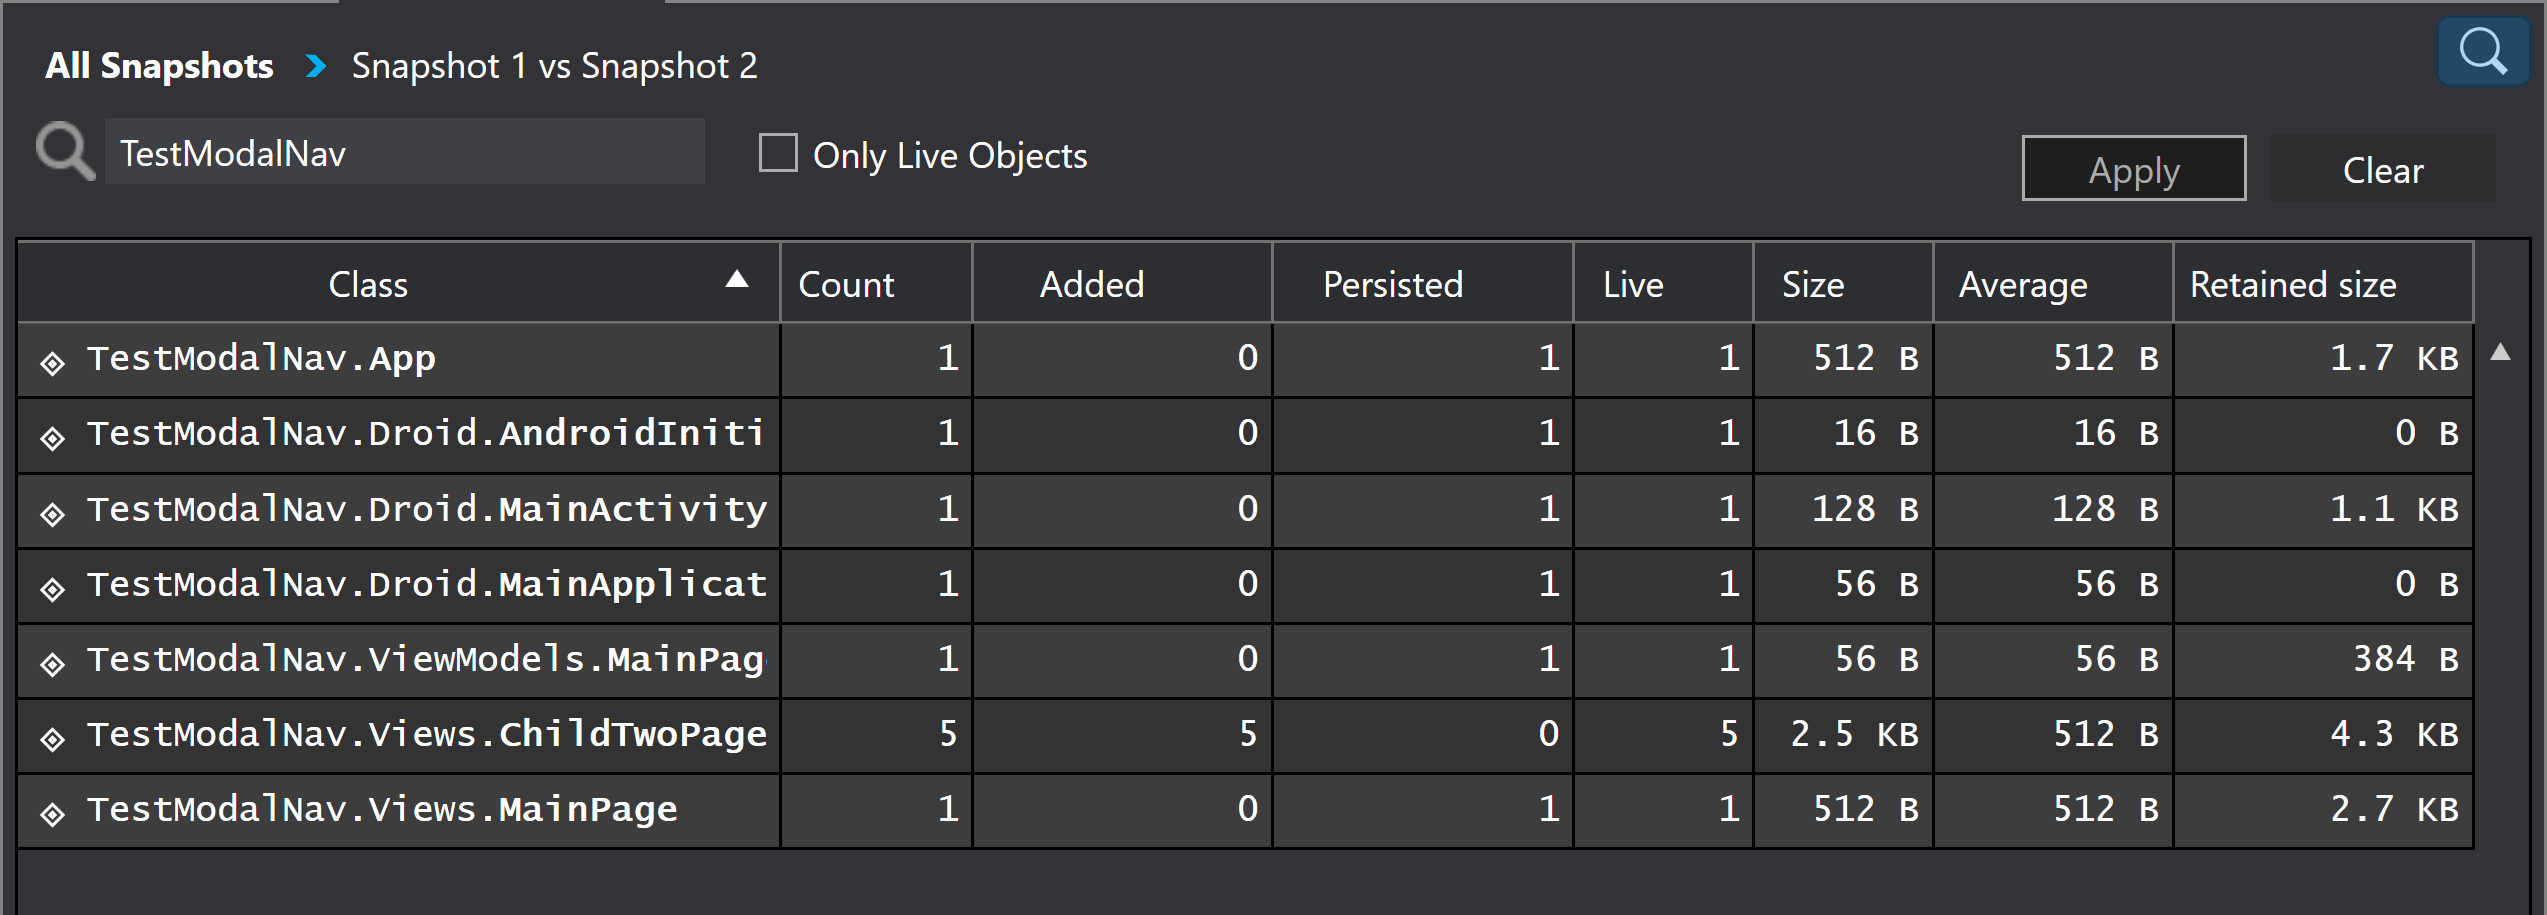
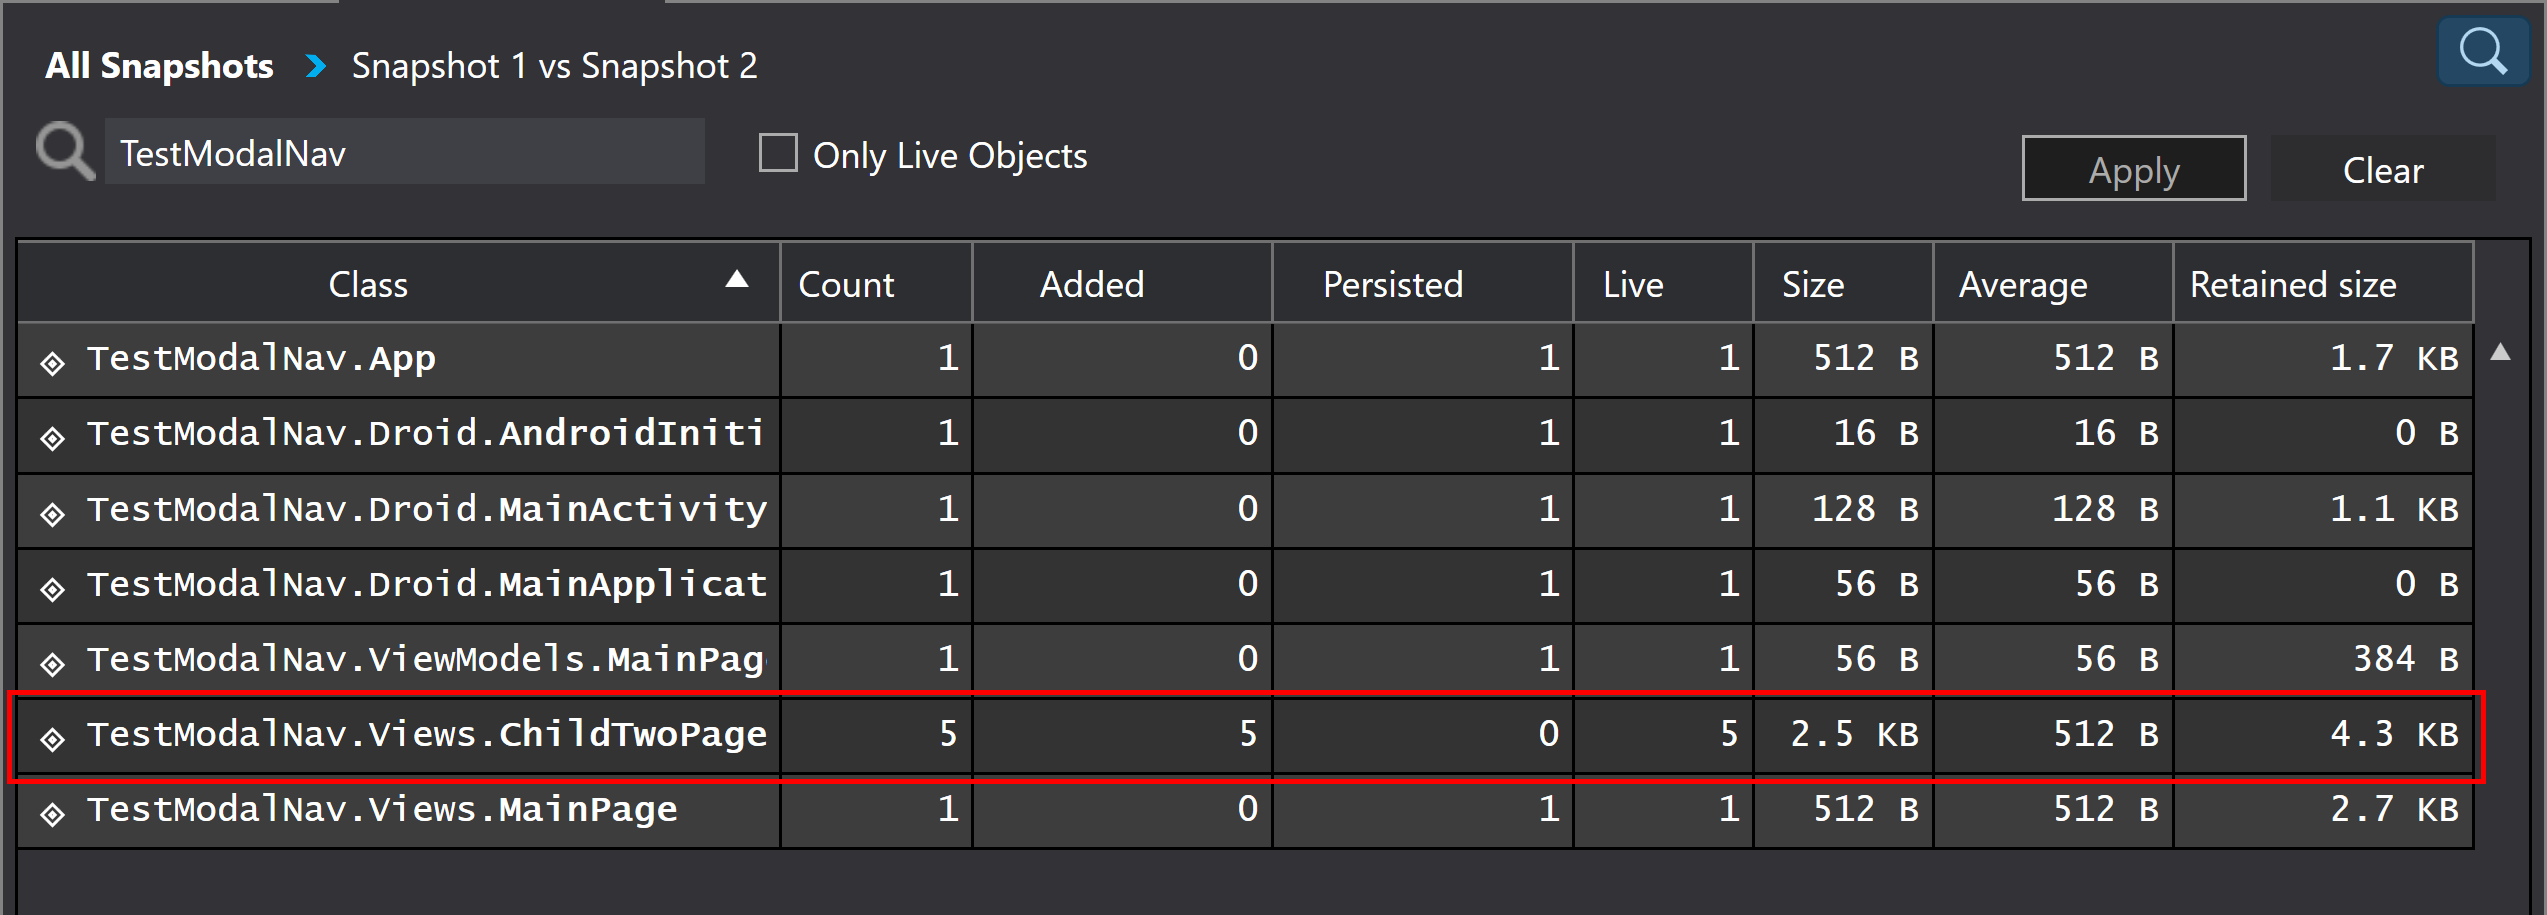
Update readme.md and images

Changed region(s): [[0.0, 0.8262, 0.9925, 0.8568], [0.0, 0.7344, 0.9615, 0.765]]

diff --git a/README.md b/README.md
@@ -1,11 +1,30 @@
-# prism-xf-modalnav-leak
+# prism-xf-modalnav-leak
 
-Replicate memory leak when using modal navigation
+### Replicate possible memory leak when using modal navigation.
 
-Snapshots after navigating to (and then back from) ChildOnePage (standard navigation) and ChildTwoPage (modal) a total of 5 times each.
+Honestly don't know if this a Forms thing, a Prism thing or, more than likely, a me thing.
 
-![Test Image 7](https://github.com/swampnet-issues/prism-xf-modalnav-leak/blob/master/img/screenshot-01.png)
+Xamarin Forms Profiler snapshots after navigating to (and then back from) ChildOnePage (standard navigation) and ChildTwoPage (modal) a total of 5 times each (between snapshots 1 & 2. 0 is just my baseline).
 
-ChildOnePage has zero allocations, ChildTwoPage still has five.
+![Xamarin Forms Profiler](https://github.com/swampnet-issues/prism-xf-modalnav-leak/blob/master/img/screenshot-01.png)
 
-![Test Image 7](https://github.com/swampnet-issues/prism-xf-modalnav-leak/blob/master/img/screenshot-02.png)
+ChildOnePage (normal navigation) has zero allocations, ChildTwoPage (modal) still has five.
+
+![Xamarin Forms Profiler](https://github.com/swampnet-issues/prism-xf-modalnav-leak/blob/master/img/screenshot-02.png)
+
+```
+private DelegateCommand _navigateCommand;
+public DelegateCommand NavigateCommand => _navigateCommand ?? (_navigateCommand = new DelegateCommand(Navigate));
+private async void Navigate()
+{
+    await NavigationService.NavigateAsync("ChildOnePage");
+}
+
+
+private DelegateCommand _navigateModalCommand;
+public DelegateCommand NavigateModalCommand => _navigateModalCommand ?? (_navigateModalCommand = new DelegateCommand(NavigateModal));
+private async void NavigateModal()
+{
+    await NavigationService.NavigateAsync("ChildTwoPage", useModalNavigation: true);
+}
+```
